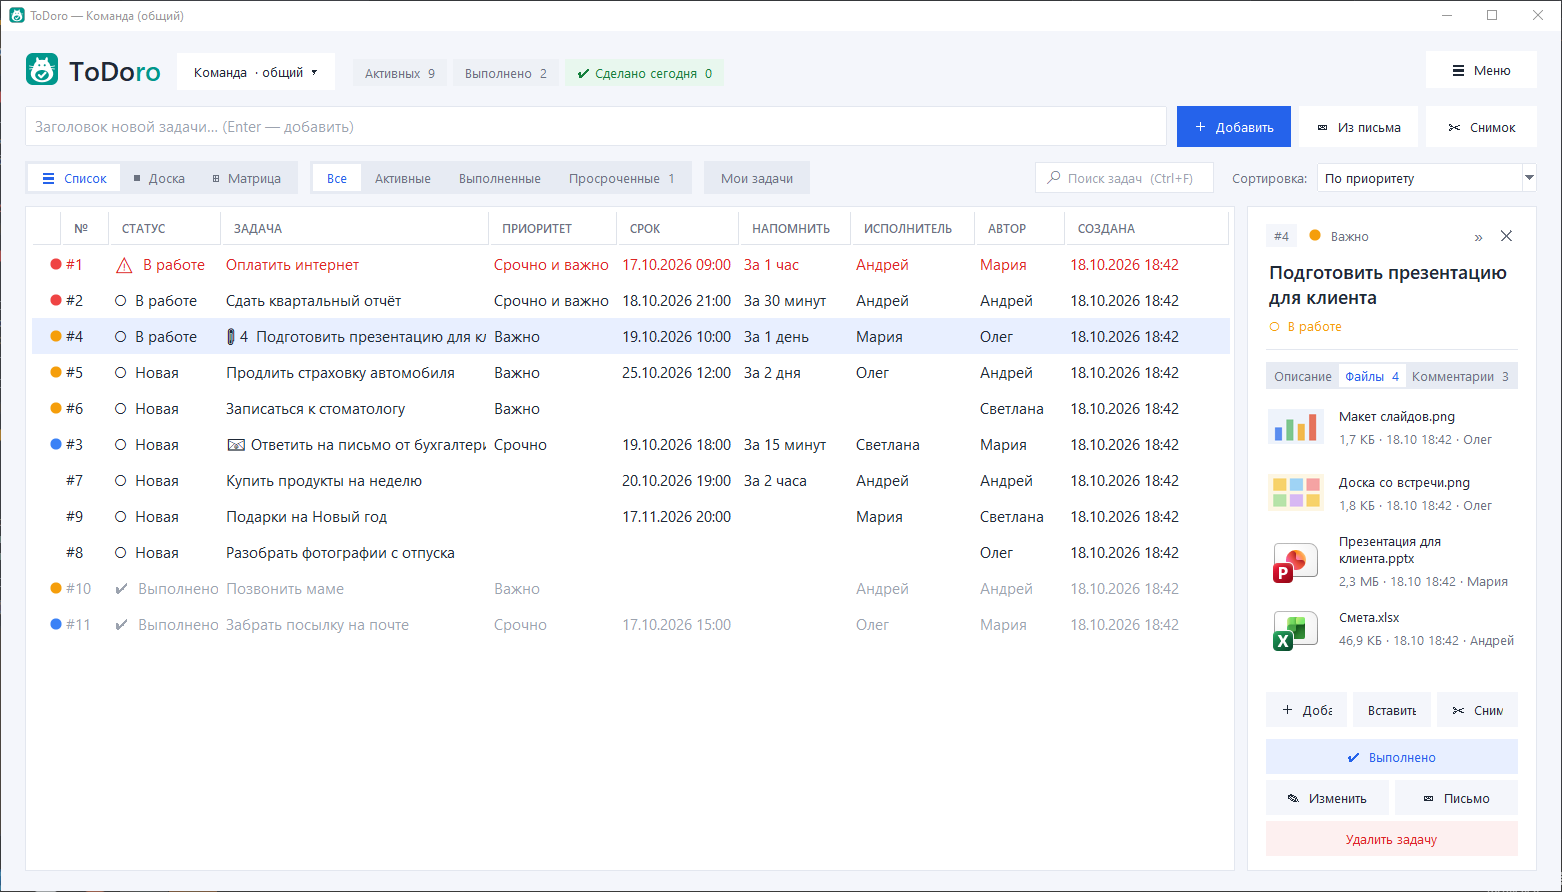
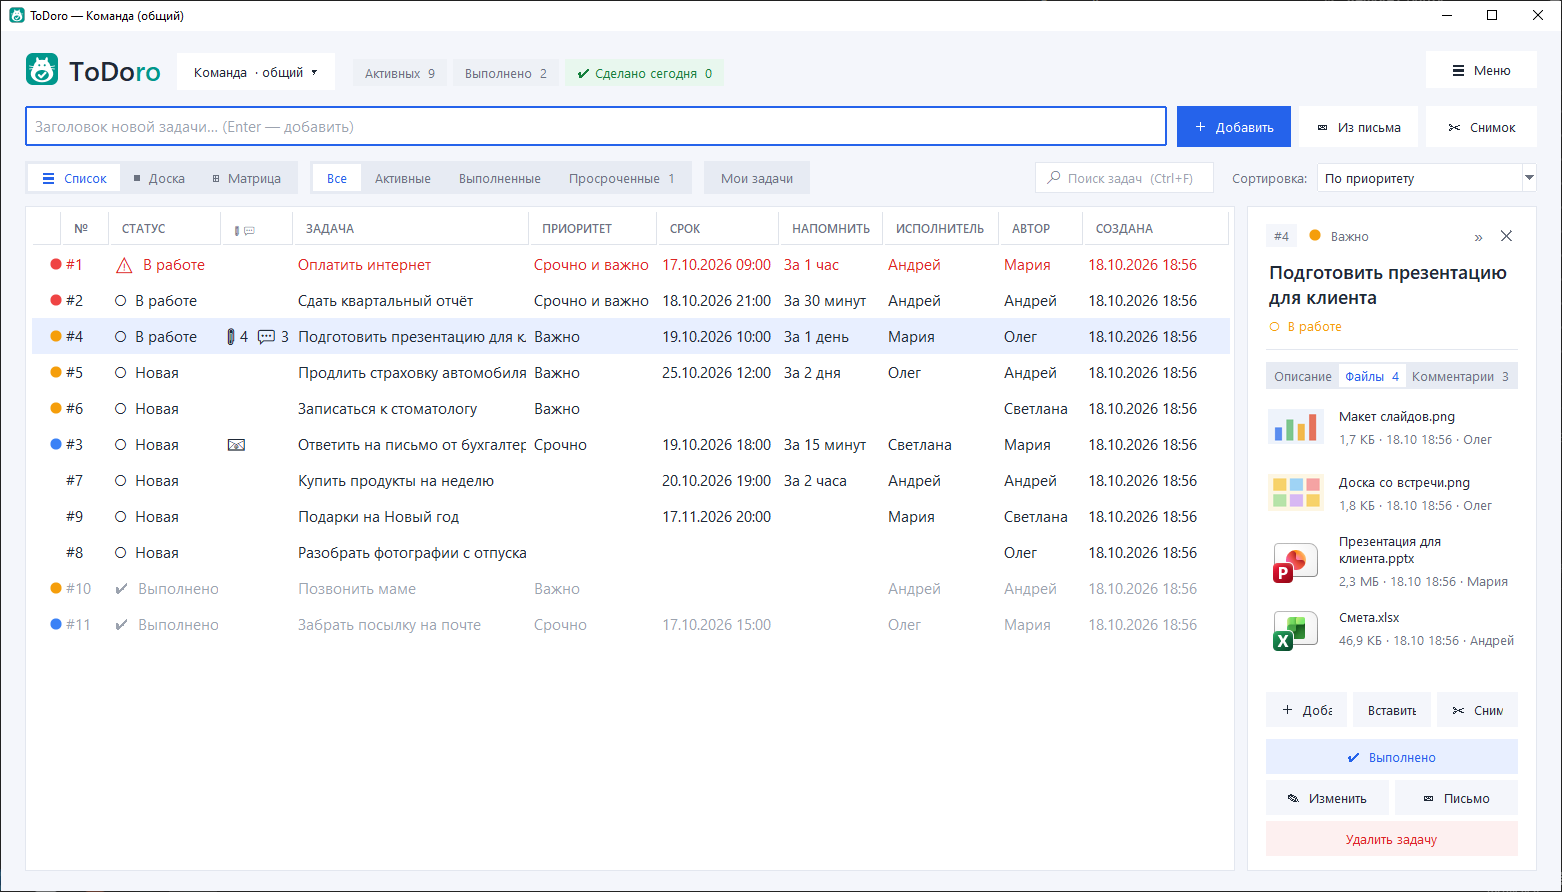
Список задач: значки 📧 📎 💬 — в отдельном узком столбце слева от названия (названия стоят ровно), сортировка по нему; справка и тесты

diff --git a/tests/test_list_title.py b/tests/test_list_title.py
@@ -1,6 +1,7 @@
-"""Заголовок задачи в списке (TodoApp.list_title): 📧 и 📎 с числом файлов — в начале строки,
-💬 с числом комментариев — в конце. И значки для доски/матрицы (extras_mark) — прежние.
-Окна не открываются: метод вызывается на подставном объекте."""
+"""Столбец значков в списке задач (TodoApp.list_marks, marks_order): 📧 из письма, 📎 с числом
+файлов и 💬 с числом комментариев — отдельно от названия, и сортировка по этому столбцу.
+Значки для доски/матрицы (extras_mark) — прежние.
+Окна не открываются: методы вызываются на подставном объекте."""
 
 import sys
 import unittest
@@ -12,57 +13,131 @@ sys.path.insert(0, str(Path(__file__).resolve().parent.parent))
 import todoro  # noqa: E402
 
 
-def title(task_id, text, counts=None, mail=()):
-    fake = SimpleNamespace(extra_counts=counts or {}, mail_ids=set(mail))
-    return todoro.TodoApp.list_title(fake, task_id, text)
+def fake_app(counts=None, mail=(), column_sort=None):
+    fake = SimpleNamespace(extra_counts=counts or {}, mail_ids=set(mail),
+                           column_sort=column_sort, authors={}, assignees={},
+                           sort_key=lambda row: row[0])
+    fake.marks_order = lambda task_id: todoro.TodoApp.marks_order(fake, task_id)
+    return fake
 
 
-class ListTitleTests(unittest.TestCase):
-    def test_plain(self):
-        self.assertEqual(title(1, "Купить хлеб"), "Купить хлеб")
+def marks(task_id, counts=None, mail=()):
+    return todoro.TodoApp.list_marks(fake_app(counts, mail), task_id)
 
-    def test_zero_counts_plain(self):
+
+def order(task_id, counts=None, mail=()):
+    return todoro.TodoApp.marks_order(fake_app(counts, mail), task_id)
+
+
+class ListMarksTests(unittest.TestCase):
+    def test_nothing(self):
+        self.assertEqual(marks(1), "")
+
+    def test_zero_counts_empty(self):
         """Запись (0, 0) в extra_counts — как будто её нет."""
-        self.assertEqual(title(1, "Купить хлеб", {1: (0, 0)}), "Купить хлеб")
+        self.assertEqual(marks(1, {1: (0, 0)}), "")
 
-    def test_none_counts_plain(self):
-        self.assertEqual(title(1, "Купить хлеб", {1: None}), "Купить хлеб")
+    def test_none_counts_empty(self):
+        self.assertEqual(marks(1, {1: None}), "")
 
-    def test_files_only_in_front(self):
-        self.assertEqual(title(1, "Отчёт", {1: (2, 0)}), "📎 2  Отчёт")
+    def test_files_only(self):
+        self.assertEqual(marks(1, {1: (2, 0)}), "📎 2")
 
-    def test_comments_only_at_end(self):
-        self.assertEqual(title(1, "Отчёт", {1: (0, 1)}), "Отчёт   💬 1")
-
-    def test_mail_files_comments(self):
-        self.assertEqual(title(7, "Ответить", {7: (3, 1)}, mail={7}), "📧 📎 3  Ответить   💬 1")
+    def test_comments_only(self):
+        self.assertEqual(marks(1, {1: (0, 1)}), "💬 1")
 
     def test_mail_only(self):
-        self.assertEqual(title(7, "Ответить", mail={7}), "📧 Ответить")
+        self.assertEqual(marks(7, mail={7}), "📧")
+
+    def test_mail_files_comments(self):
+        self.assertEqual(marks(7, {7: (3, 2)}, mail={7}), "📧  📎 3  💬 2")
 
     def test_mail_and_comments(self):
-        self.assertEqual(title(7, "Ответить", {7: (0, 4)}, mail={7}), "📧 Ответить   💬 4")
+        self.assertEqual(marks(7, {7: (0, 4)}, mail={7}), "📧  💬 4")
 
     def test_files_and_comments(self):
-        self.assertEqual(title(5, "Х", {5: (1, 2)}), "📎 1  Х   💬 2")
+        self.assertEqual(marks(5, {5: (1, 2)}), "📎 1  💬 2")
 
-    def test_other_task_counts_ignored(self):
-        """Значки другой задачи (и её письмо) не попадают в заголовок."""
-        self.assertEqual(title(1, "Моя", {2: (5, 5)}, mail={2}), "Моя")
+    def test_other_task_ignored(self):
+        """Значки другой задачи (и её письмо) не попадают в строку."""
+        self.assertEqual(marks(1, {2: (5, 5)}, mail={2}), "")
 
     def test_big_numbers(self):
-        self.assertEqual(title(1, "Т", {1: (1234, 99999)}), "📎 1234  Т   💬 99999")
+        self.assertEqual(marks(1, {1: (1234, 99999)}), "📎 1234  💬 99999")
 
-    def test_empty_title(self):
-        self.assertEqual(title(1, "", {1: (2, 1)}, mail={1}), "📧 📎 2     💬 1")
+    def test_no_edge_spaces(self):
+        """Без пробелов в начале и в конце — столбец узкий, текст начинается с края."""
+        text = marks(1, {1: (2, 3)}, mail={1})
+        self.assertEqual(text, text.strip())
 
-    def test_files_not_repeated_at_end(self):
-        """Скрепка — только в начале, в конце строки её больше нет."""
-        text = title(1, "Отчёт", {1: (2, 3)}, mail={1})
-        self.assertEqual(text.count("📎"), 1)
-        self.assertEqual(text.count("📧"), 1)
-        self.assertTrue(text.startswith("📧 📎 2  "))
-        self.assertTrue(text.endswith("   💬 3"))
+    def test_title_method_removed(self):
+        """Название задачи больше не склеивается со значками: list_title удалён."""
+        self.assertFalse(hasattr(todoro.TodoApp, "list_title"))
+
+
+class MarksOrderTests(unittest.TestCase):
+    def test_empty_is_none(self):
+        self.assertIsNone(order(1))
+        self.assertIsNone(order(1, {1: (0, 0)}))
+        self.assertIsNone(order(1, {1: None}))
+        self.assertIsNone(order(1, {2: (3, 3)}, mail={2}))
+
+    def test_values(self):
+        self.assertEqual(order(1, {1: (2, 3)}), (-2, -3, 0))
+        self.assertEqual(order(1, {1: (0, 1)}), (0, -1, 0))
+        self.assertEqual(order(1, mail={1}), (0, 0, -1))
+        self.assertEqual(order(1, {1: (1, 0)}, mail={1}), (-1, 0, -1))
+
+    def test_files_before_comments_before_mail(self):
+        """Больше файлов — выше; при равных файлах — больше комментариев; потом письмо."""
+        self.assertLess(order(1, {1: (2, 0)}), order(1, {1: (1, 99)}))
+        self.assertLess(order(1, {1: (1, 5)}), order(1, {1: (1, 4)}))
+        self.assertLess(order(1, {1: (1, 4)}, mail={1}), order(1, {1: (1, 4)}))
+
+
+def row(task_id, title="Задача"):
+    # (id, title, done, _, due_at, remind_before, urgent, important, _, status_id)
+    return (task_id, title, False, None, None, None, False, False, None, 1)
+
+
+class SortByMarksTests(unittest.TestCase):
+    """sort_rows по столбцу «📎 💬»: пустые — всегда внизу."""
+
+    counts = {1: (1, 0), 2: (3, 0), 4: (0, 2), 5: (3, 1)}
+    mail = {6}
+    statuses = [(1, "Новая")]
+
+    def sort(self, descending):
+        fake = fake_app(self.counts, self.mail, ["marks", descending])
+        rows = [row(i) for i in (7, 3, 1, 6, 5, 4, 2)]
+        return [r[0] for r in todoro.TodoApp.sort_rows(fake, rows, self.statuses)]
+
+    def test_ascending(self):
+        # 5 (3 файла, 1 комм.), 2 (3 файла), 1 (1 файл), 4 (2 комм.), 6 (письмо); потом 3, 7
+        self.assertEqual(self.sort(False), [5, 2, 1, 4, 6, 3, 7])
+
+    def test_descending(self):
+        self.assertEqual(self.sort(True), [6, 4, 1, 2, 5, 3, 7])
+
+    def test_equal_marks_by_number(self):
+        """Одинаковые значки — по номеру задачи (сортировка устойчивая)."""
+        fake = fake_app({3: (1, 1), 1: (1, 1), 2: (1, 1)}, (), ["marks", False])
+        rows = [row(i) for i in (3, 1, 2)]
+        self.assertEqual([r[0] for r in todoro.TodoApp.sort_rows(fake, rows, self.statuses)],
+                         [1, 2, 3])
+
+    def test_all_empty(self):
+        fake = fake_app({}, (), ["marks", True])
+        rows = [row(i) for i in (2, 1)]
+        self.assertEqual([r[0] for r in todoro.TodoApp.sort_rows(fake, rows, self.statuses)],
+                         [1, 2])
+
+    def test_title_sort_ignores_marks(self):
+        """Сортировка по «Задаче» — только по названию, значки на неё не влияют."""
+        fake = fake_app({1: (9, 9)}, {1}, ["title", False])
+        rows = [row(1, "Яблоко"), row(2, "арбуз")]
+        self.assertEqual([r[0] for r in todoro.TodoApp.sort_rows(fake, rows, self.statuses)],
+                         [2, 1])
 
 
 class ExtrasMarkTests(unittest.TestCase):

diff --git a/todoro.py b/todoro.py
@@ -5216,6 +5216,7 @@ class TodoApp:
         columns = {
             "num": ("№", 52, False),
             "status": ("СТАТУС", 140, False),
+            "marks": ("📎 💬", 100, False),  # 📧 из письма, 📎 файлы, 💬 комментарии
             "title": ("ЗАДАЧА", 220, False),
             "priority": ("ПРИОРИТЕТ", 130, False),
             "due": ("СРОК", 125, False),
@@ -5238,6 +5239,9 @@ class TodoApp:
         # Ширину столбцов можно менять, потянув за разделитель в заголовке; она запоминается
         # («_v2»: ширины из прошлой версии не годятся — там «Задача» растягивалась на всё место)
         widths = db.get_json_setting(self.prefs, "list_columns_v2", {})
+        if widths and "marks" not in widths and "title" in widths:
+            # столбец значков появился после 2.18: место для него берём у «Задачи», а не у окна
+            widths["title"] = max(widths["title"] - columns["marks"][1], 150)
         self.column_titles = {key: text for key, (text, _, _) in columns.items()}
         for key, (text, width, stretch) in columns.items():
             # Щелчок по заголовку столбца сортирует по нему, повторный — в обратном порядке
@@ -5246,6 +5250,9 @@ class TodoApp:
             self.tree.column(key, width=widths.get(key, width), minwidth=40, stretch=stretch)
         # Сортировка по столбцу: [столбец, по убыванию ли] или None — тогда работает список «Сортировка»
         self.column_sort = db.get_json_setting(self.prefs, "list_sort", None)
+        if not (isinstance(self.column_sort, list) and len(self.column_sort) == 2
+                and self.column_sort[0] in self.column_titles):
+            self.column_sort = None  # столбца больше нет (или настройка испорчена) — обычная сортировка
         self.show_column_sort()
         # Пока ширины не настраивали — «Задача» занимает всё свободное место таблицы
         self.columns_fitted = bool(widths)
@@ -6364,7 +6371,7 @@ class TodoApp:
             self.row_status[iid] = name
             self.tree.insert(
                 "", "end", iid=iid, image=IMAGES.get(f"priority_{level}", ""),
-                values=(f"#{task_id}", status_label(name, done), self.list_title(task_id, title),
+                values=(f"#{task_id}", status_label(name, done), self.list_marks(task_id), title,
                         PRIORITY_NAMES[level],
                         format_due(due_at), remind, self.assignees.get(task_id, ""),
                         self.authors.get(task_id, ""), created),
@@ -6423,6 +6430,7 @@ class TodoApp:
                 "assignee": (self.assignees.get(task_id) or "").casefold() or None,
                 "status": position.get(status_id, len(position)),
                 "title": title.casefold(),
+                "marks": self.marks_order(task_id),
                 "priority": priority_level(urgent, important),
                 "due": due_at,
                 "remind": remind_before if due_at else None,
@@ -6843,9 +6851,7 @@ class TodoApp:
         mark = self.task_mark(task_id)
         iid = str(task_id)
         if self.tree.exists(iid):
-            title = next((r[1] for r in self.all_rows if r[0] == task_id), None)
-            if title is not None:
-                self.tree.set(iid, "title", self.list_title(task_id, title))
+            self.tree.set(iid, "marks", self.list_marks(task_id))
         if self.cards_view():
             self.cards_view().set_mark(task_id, mark)
         if self.side.mode == "task" and self.side.card.task_id == task_id:
@@ -6855,12 +6861,16 @@ class TodoApp:
         """Значки карточки на доске: 📧 (из письма Outlook), 📎 файлы, 💬 комментарии."""
         return extras_mark(self.extra_counts.get(task_id), task_id in self.mail_ids)
 
-    def list_title(self, task_id, title):
-        """Заголовок в списке: 📧 и 📎 с числом файлов — впереди (столбец узкий, конец строки
-        может не поместиться), 💬 — после заголовка."""
+    def list_marks(self, task_id):
+        """Столбец значков в списке: '📧  📎 3  💬 2' (или '', если ничего нет) — отдельно от
+        названия, чтобы названия задач стояли ровно."""
+        return extras_mark(self.extra_counts.get(task_id), task_id in self.mail_ids).strip()
+
+    def marks_order(self, task_id):
+        """Сортировка по столбцу значков: больше файлов, потом комментариев — выше; без значков — None."""
         files, comments = self.extra_counts.get(task_id) or (0, 0)
-        prefix = (MAIL_MARK + " " if task_id in self.mail_ids else "") + (f"📎 {files}  " if files else "")
-        return prefix + title + extras_mark((0, comments))
+        mail = task_id in self.mail_ids
+        return (-files, -comments, -mail) if files or comments or mail else None
 
     def attachments(self, task_id):
         try:

diff --git a/help_text.py b/help_text.py
@@ -130,7 +130,7 @@ HELP = [
     ("li", "Файлы хранятся внутри списка задач: в общем списке их видят все участники, при "
            "переносе задачи в другой список они переезжают вместе с ней. Если открытый файл "
            "изменить, в задаче останется прежняя версия — сохраните его и добавьте заново."),
-    ("li", "На доске и в столбце «Задача» значок **📎** с числом показывает, сколько у задачи файлов."),
+    ("li", "Значок **📎** с числом показывает, сколько у задачи файлов: на доске — в карточке задачи, в списке — в отдельном узком столбце «📎 💬» слева от названия (щелчок по его заголовку поднимает наверх задачи с файлами и комментариями)."),
 
     ("h2", "Комментарии"),
     ("li", "Вкладка **Комментарии** в карточке задачи — заметки по ходу дела: что сделано, что "
@@ -139,7 +139,7 @@ HELP = [
            "Комментарии других участников появляются сами через несколько секунд."),
     ("li", "Правая кнопка мыши по комментарию — **Копировать текст** или **Удалить комментарий** "
            "(в общем списке удалить можно только свой)."),
-    ("li", "Значок **💬** с числом на доске и в столбце «Задача» — сколько у задачи комментариев."),
+    ("li", "Значок **💬** с числом на доске и в столбце «📎 💬» списка — сколько у задачи комментариев."),
 
     ("h2", "Изменить задачу"),
     ("li", "Дважды щёлкните по задаче, нажмите [F2] или **Изменить** — форма откроется прямо "
@@ -222,7 +222,7 @@ HELP = [
     ("li", "Письмо с важностью «Высокая» — задача **Важно**. Если у письма или поручения Outlook "
            "есть срок — он станет сроком задачи."),
     ("li", "Задача попадает в открытый список; в общем списке исполнитель — вы."),
-    ("li", "У задач из писем — значок 📧: в списке перед заголовком, на доске и в матрице — внизу "
+    ("li", "У задач из писем — значок 📧: в списке — в столбце «📎 💬», на доске и в матрице — внизу "
            "карточки, а в карточке справа — надпись **Из Outlook**."),
     ("li", "Адрес отправителя запоминается: **Письмо** по такой задаче ([Ctrl+E]) сразу "
            "адресовано ему — удобно сообщить, что поручение выполнено."),

diff --git a/tools/make_screenshots.py b/tools/make_screenshots.py
@@ -142,8 +142,8 @@ app = T.TodoApp(root)
 app.side.totoro.animate = False  # на снимках Тоторо не должен попасть моргающим
 T.center_on_screen(root, 1560, 860)  # пошире, чтобы названия задач и все столбцы помещались
 # ширины столбцов для снимка: место — названию задачи, остальным — по содержимому
-for column, width in (("num", 48), ("status", 112), ("title", 268), ("priority", 128), ("due", 122),
-                      ("remind", 112), ("assignee", 124), ("author", 90), ("created", 116)):
+for column, width in (("num", 48), ("status", 112), ("marks", 72), ("title", 236), ("priority", 128), ("due", 122),
+                      ("remind", 104), ("assignee", 116), ("author", 84), ("created", 116)):
     app.tree.column(column, width=width)
 app.columns_fitted = True
 root.attributes("-topmost", True)

diff --git a/RELEASE_NOTES.md b/RELEASE_NOTES.md
@@ -6,7 +6,7 @@
 ## Не выпущено
 
 - Файлы задачи показываются с такими же значками, как в Проводнике Windows (Word, Excel, PDF…), а не с серой плашкой с расширением.
-- В списке задач скрепка с числом файлов стоит теперь в начале строки, перед названием задачи, и не пропадает, когда длинное название не помещается в столбец.
+- В списке задач значки 📧 (из письма), 📎 (файлы) и 💬 (комментарии) собраны в отдельный узкий столбец слева от названия: названия стоят ровно, а значки не прячутся, когда длинное название не помещается. Щелчок по заголовку столбца поднимает наверх задачи с файлами и комментариями.
 
 ## 2.18 — 18.10.2026
 
